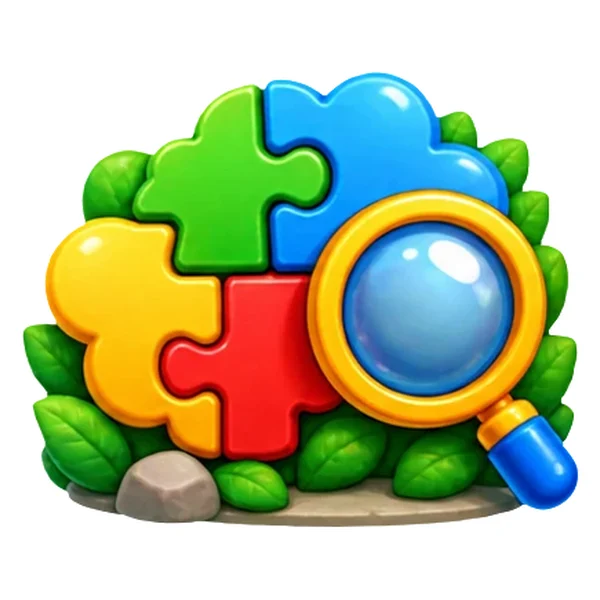
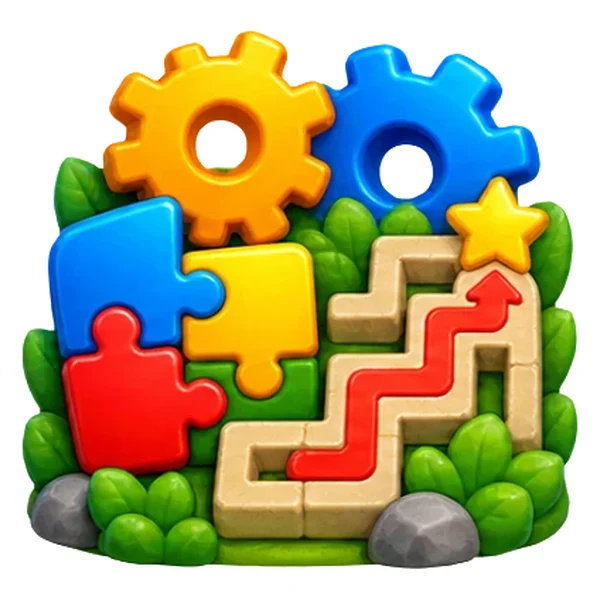
Обкладинки: знайди зайве, логічне мислення, увага, пам'ять, кмітливість
5 обкладинок 600×600. «Логічне мислення» — нова картинка (шестерні,
пазл, сходинки) замість пазла з лупою. sk-covers.js?v=12.

Claude-Session: https://claude.ai/code/session_012gsvSKmnFP4kCtizBjEpJL

diff --git a/sk-covers.js b/sk-covers.js
@@ -102,7 +102,11 @@
     [/нестандартн/,                    'mat-nestandartni'],
     [/вежа логіки/,                    'mat-vezha-lohiky'],
     [/логічн.*рівнян/,                 'mat-lohichni-rivnyannya'],
-    [/логічне мислення/,               'mat-lohichne-myslennya']
+    [/логічне мислення/,               'mat-lohichne-myslennya'],
+    [/знайди зайве|^зайве/,            'mat-znaidy-zaive'],
+    [/уваг.*спостережлив|^увага|спостережлив/, 'mat-uvaha'],
+    [/память/,                         'mat-pamyat'],
+    [/кмітлив/,                        'mat-kmitlyvist']
   ];
   function byTitle(title, subj){
     var s = String(title||'').toLowerCase().replace(/[’'`ʼ]/g,'').trim();

diff --git a/test.html b/test.html
@@ -179,7 +179,7 @@ body::before{content:'';position:fixed;inset:0;z-index:0;pointer-events:none;
 <!-- Firebase API (window.SK) -->
 <!-- Спільна карта: має бути ДО інлайн-скрипта — той читає SKCUR при парсингу -->
 <script src="sk-curriculum.js?v=4"></script>
-<script src="sk-covers.js?v=11"></script>
+<script src="sk-covers.js?v=12"></script>
 <script type="module" src="firebase-config.js"></script>
 
 <script>

diff --git a/navchannia.html b/navchannia.html
@@ -160,7 +160,7 @@
          • активні тести      — SK.listActiveTests()
          • прогрес Героя      — heroes/{id}.progress ∪ localStorage
        Зв'язку з адмінкою тут НЕМАЄ: плитки й дисципліни задані статично. -->
-  <script src="sk-covers.js?v=11"></script>
+  <script src="sk-covers.js?v=12"></script>
   <script>
   (function(){
     'use strict';

diff --git a/tests.html b/tests.html
@@ -122,7 +122,7 @@
 
 <!-- Спільна карта королівства. МАЄ йти перед інлайн-скриптом нижче -->
 <script src="sk-curriculum.js?v=4"></script>
-<script src="sk-covers.js?v=11"></script>
+<script src="sk-covers.js?v=12"></script>
 <script>
 /* ── Запобіжник: sk-curriculum.js має бути свіжим ── */
 (function(){
